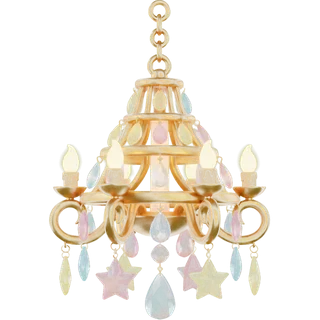
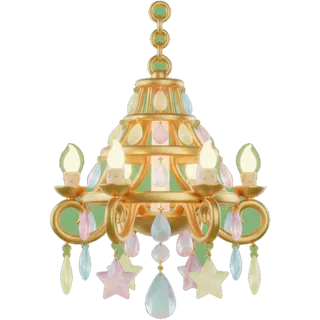
ホームの吹き出し表示崩れと、アイテム画像の半透明を修正
- 吹き出しを部屋より手前に出し2行分の高さを確保（文字送りでレイアウトが動かない）
- 部屋の大きさを残りの高さに合わせて自動調整し、小さい画面でもはみ出さない
- アイテム画像の背景抜きを「外周とつながった背景だけ透明」に変更し、
  淡い色の物が半透明になる問題・緑の影・小さなゴミを解消（元画像から再処理）

diff --git a/app/style.css b/app/style.css
@@ -305,7 +305,6 @@ body.home-fixed .stage { flex: 1 1 auto; min-height: 0; display: flex; flex-dire
 
 body.home-fixed .menu { flex: none; }
 @media (max-height: 700px) {
-  body.home-fixed .bubble { font-size: 13.5px; padding: 8px 12px; min-height: 0; }
   body.home-fixed .menu a.t-quiz { min-height: 78px; }
   body.home-fixed .menu a:not(.t-quiz) { min-height: 88px; }
   body.home-fixed .menu a .ico { font-size: 24px; }
@@ -354,8 +353,30 @@ body.home-fixed .menu { flex: none; }
 .room .ritem .emo { font-size: calc(var(--w) * 1cqw * .82); line-height: 1; filter: drop-shadow(0 4px 3px rgba(90, 50, 30, .25)); }
 .room .dog { position: absolute; left: 50%; bottom: 4%; width: auto; height: 60%; aspect-ratio: 1; margin: 0; transform: translateX(-50%); z-index: 4; }
 .room .sparkle { z-index: 8; color: #fff; }
-body.home-fixed .room { width: min(100%, calc(42dvh * 4 / 3)); flex: none; }
+
 body.home-fixed .stage .dog { width: auto; height: 60%; min-height: 0; }
 .item .e .emo { font-size: 44px; }
 .item .e img { width: 64px; height: 64px; object-fit: contain; }
 .item .kind { position: absolute; right: 8px; top: 8px; font-size: 10px; font-weight: 800; color: var(--sub); background: #f6eef3; border-radius: 6px; padding: 1px 6px; z-index: 1; }
+
+/* ホームの吹き出し：部屋より手前に出し、2行分の高さを確保して文字送りでレイアウトがずれないようにする */
+.stage .bubble {
+  z-index: 6; display: block; width: 100%; max-width: 100%; box-sizing: border-box;
+  min-height: calc(2 * 1.5em + 20px); margin: 0 0 10px; padding: 10px 14px;
+  font-size: 14px; line-height: 1.5;
+}
+.stage .bubble::after { z-index: 6; }
+.stage .room { margin-top: 2px; }
+
+@media (max-height: 740px) {
+  body.home-fixed .stage { padding: 8px 10px; }
+  body.home-fixed .stage .bubble { font-size: 13px; padding: 8px 12px; min-height: calc(2 * 1.5em + 16px); margin-bottom: 8px; }
+  body.home-fixed .expbar { margin: 6px auto 2px; }
+}
+@media (max-height: 700px) {
+  body.home-fixed .stage > .muted { display: none; }
+}
+body.home-fixed .stage > * { flex-shrink: 0; }
+/* ホームの部屋は、吹き出し・名前・EXPバーを置いた残りの高さいっぱいに広がる（幅は4:3で決まる） */
+body.home-fixed .stage { justify-content: flex-start; }
+body.home-fixed .stage > .room { flex: 1 1 0; min-height: 0; height: auto; width: auto; max-width: 100%; aspect-ratio: 4 / 3; margin: 0 auto 8px; }

diff --git a/app/sw.js b/app/sw.js
@@ -1,5 +1,5 @@
 // オフラインでも開けるように、アプリ本体とデータをキャッシュする（ネットワーク優先）。
-const CACHE = "moko-v10";
+const CACHE = "moko-v12";
 const CORE = ["./", "index.html", "style.css", "manifest.webmanifest", "js/main.js", "js/ui.js", "js/store.js", "js/data.js", "js/dog.js", "js/items.js", "js/videos.js", "data/questions.enc", "data/k.txt", "data/videos.json", "data/books.json", "icons/icon-192.png"];
 
 self.addEventListener("install", (e) => {

diff --git a/tools/gen_dog.py b/tools/gen_dog.py
@@ -7,7 +7,7 @@ import base64, io, json, os, sys, urllib.request
 from pathlib import Path
 
 import numpy as np
-from PIL import Image
+from PIL import Image, ImageFilter
 
 ROOT = Path(__file__).resolve().parent.parent
 OUT = ROOT / "app" / "data" / "dog"
@@ -61,18 +61,46 @@ def call(model, parts):
     raise RuntimeError(json.dumps(d)[:500])
 
 
-def chroma(png: bytes) -> Image.Image:
-    """背景色を画像の外周から推定し、その色からの距離で透明度を決める（くすんだ緑でも抜ける）。"""
+def chroma(png: bytes, flood: bool = False) -> Image.Image:
+    """背景色を画像の外周から推定して透過する。
+    flood=True: 外周とつながった背景色の領域だけを透明にし、物の内側は色に関係なく不透明にする
+    （淡いパステル色の物が半透明になるのを防ぐ。アイテム画像用）。"""
     im = Image.open(io.BytesIO(png)).convert("RGB")
     a = np.array(im).astype(np.float32)
     border = np.concatenate([a[:8].reshape(-1, 3), a[-8:].reshape(-1, 3), a[:, :8].reshape(-1, 3), a[:, -8:].reshape(-1, 3)])
     bg = np.median(border, axis=0)
     dist = np.sqrt(((a - bg) ** 2).sum(axis=2))
-    alpha = np.clip((dist - 40) / (110 - 40), 0, 1)  # 40未満は完全透明、110以上は不透明
-    # 縁の緑かぶりを抑える：半透明部分の緑を赤・青の大きい方まで下げる
-    g_excess = a[..., 1] - np.maximum(a[..., 0], a[..., 2])
-    edge = (alpha < 1) & (g_excess > 0) & (bg[1] > max(bg[0], bg[2]))  # 背景が緑のときだけ緑かぶりを抑える
-    a[..., 1] = np.where(edge, np.maximum(a[..., 0], a[..., 2]), a[..., 1])
+    if flood:
+        from scipy import ndimage
+        # 背景色に近い色、または背景と同じ色味の影（緑背景なら緑っぽい影）を背景候補にする
+        r_, g_, b_ = a[..., 0], a[..., 1], a[..., 2]
+        if bg[1] > max(bg[0], bg[2]):
+            tint = (g_ - np.maximum(r_, b_)) > 10
+        else:
+            tint = (np.minimum(r_, b_) - g_) > 25
+        darker = a.mean(axis=2) < bg.mean() + 15  # 影は背景と同じか暗い。明るいミント色などは物の色として残す
+        near = (dist < 38) | (tint & darker & (dist < 95))
+        lab, _ = ndimage.label(near)
+        edge_labels = np.unique(np.concatenate([lab[0], lab[-1], lab[:, 0], lab[:, -1]]))
+        bgmask = np.isin(lab, edge_labels[edge_labels > 0])
+        bgmask = ndimage.binary_opening(bgmask, iterations=1)
+        obj = ~bgmask
+        # 本体から離れた小さな点（ゴミ）を取り除く：最大の塊の2%未満の塊は背景にする
+        olab, n = ndimage.label(obj)
+        if n > 1:
+            sizes = ndimage.sum(obj, olab, range(1, n + 1))
+            keep = np.isin(olab, np.where(sizes >= sizes.max() * 0.02)[0] + 1)
+            obj = keep
+        obj = ndimage.binary_fill_holes(obj)
+        alpha = obj.astype(np.float32)
+        alpha = np.array(Image.fromarray((alpha * 255).astype(np.uint8)).filter(ImageFilter.GaussianBlur(0.8))) / 255.0
+    else:
+        alpha = np.clip((dist - 40) / (110 - 40), 0, 1)  # 40未満は完全透明、110以上は不透明
+    # 縁の色かぶりを抑える：半透明部分で背景色の成分が強いときだけ（緑背景＝緑、マゼンタ背景＝赤青）
+    if bg[1] > max(bg[0], bg[2]):
+        g_excess = a[..., 1] - np.maximum(a[..., 0], a[..., 2])
+        edge = (alpha < 1) & (g_excess > 0)
+        a[..., 1] = np.where(edge, np.maximum(a[..., 0], a[..., 2]), a[..., 1])
     rgba = np.dstack([a, alpha * 255]).astype(np.uint8)
     out = Image.fromarray(rgba)
     bbox = out.getbbox()

diff --git a/tools/gen_items.py b/tools/gen_items.py
@@ -44,7 +44,7 @@ def main():
             except Exception as err:
                 print("retry", iid, str(err)[:120])
         (RAW / f"{iid}.png").write_bytes(png)
-        gen_dog.chroma(png).save(OUT / f"{iid}.png", optimize=True)
+        gen_dog.chroma(png, flood=True).save(OUT / f"{iid}.png", optimize=True)
         print("ok", iid)
 
 
